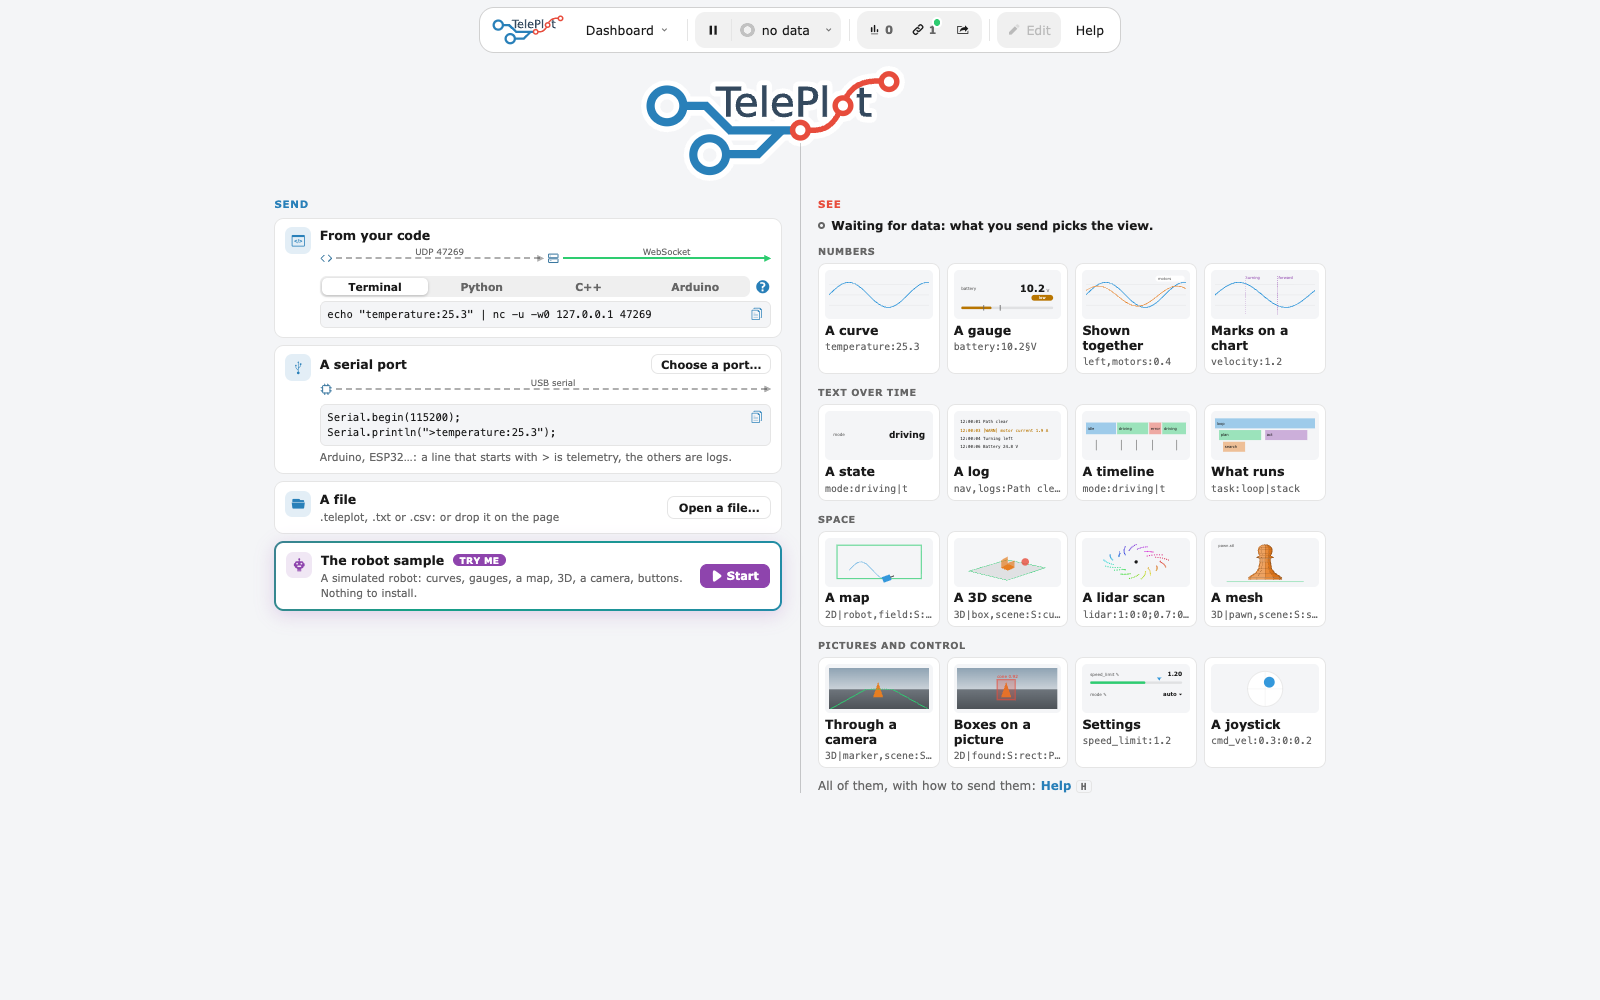
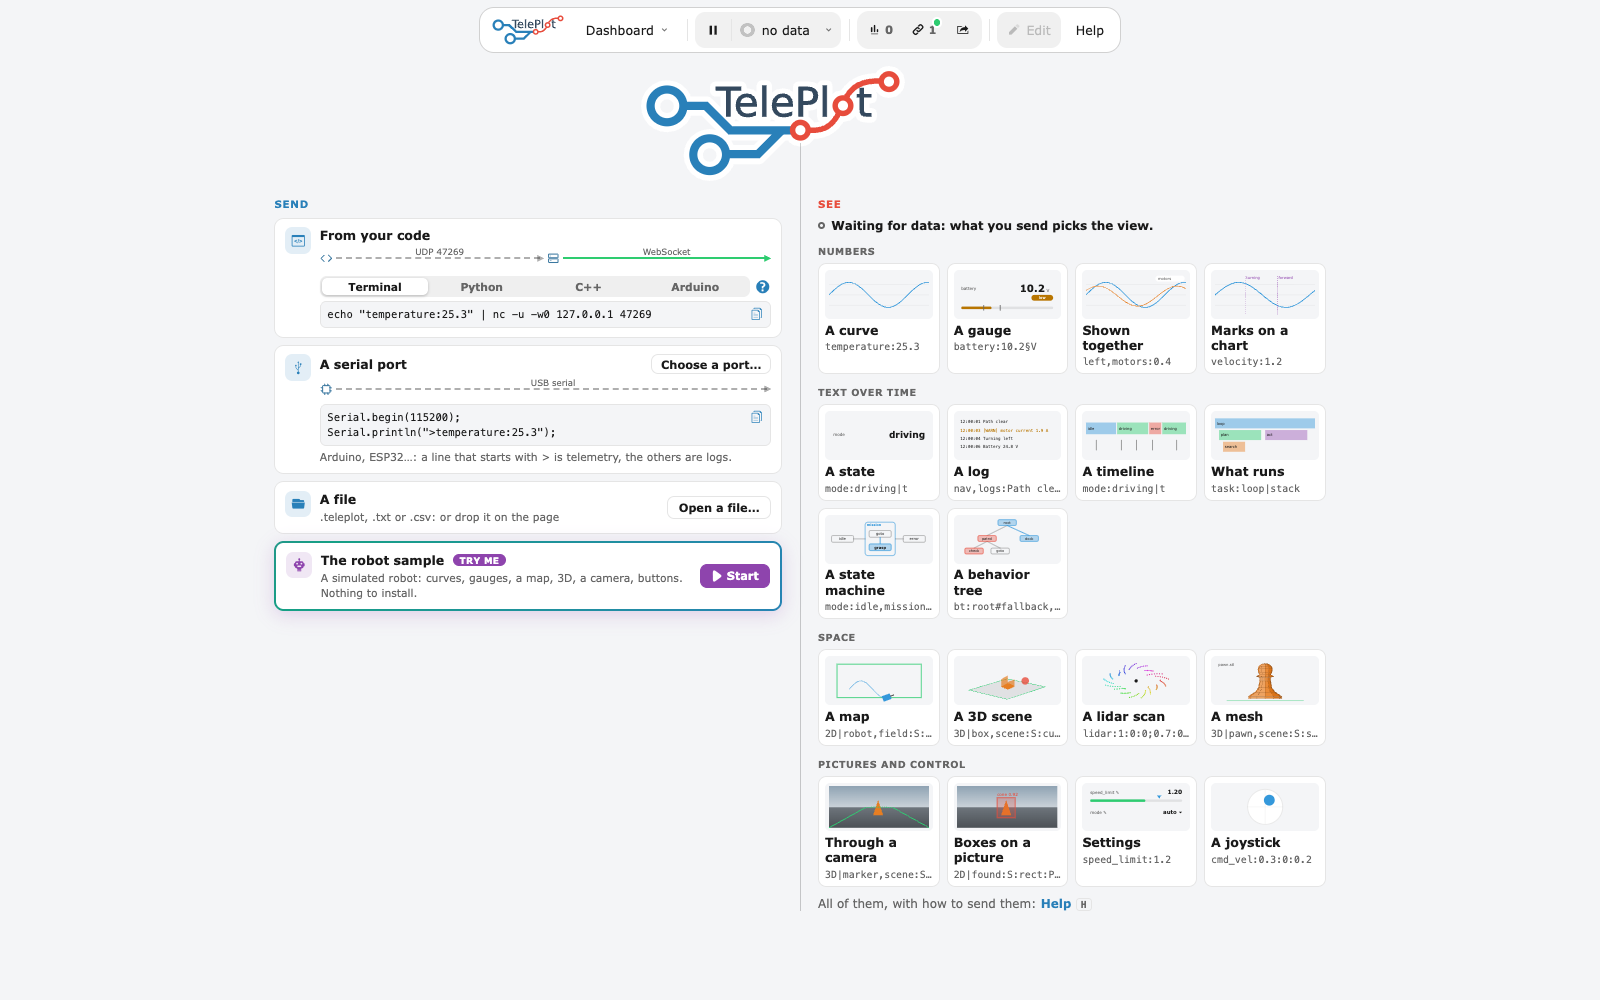
Robot sample layout, README images
- Robot sample dashboard: the 3D scene over the camera and depth
  pictures, the map over the wheel speeds, the timeline next to the
  Behavior / States graph tabs, the currents and the Distance / Gyro
  tabs at the bottom.
- README: new GIF of the sample and landing image (graph tiles).

Changed region(s): [[0.5, 0.527, 0.8125, 0.93], [0.75, 0.837, 0.8125, 0.868]]

diff --git a/packages/webapp/components/sample-robot.js b/packages/webapp/components/sample-robot.js
@@ -484,35 +484,40 @@ function createRobotSample(TP) {
         const stack = (w, h) => { const s = new TP.view.ViewStack("", group); s.setSize(w, h); return s; };
         const timeGroup = (view, name) => { view.setOption("timeGroup", "custom"); view.setOption("timeGroupName", name); return view; };
 
-        // On top, where the robot is: the 3D scene; the same telemetries on a map (a 2D view) over what its camera and its depth camera
-        // see; the camera with the 3D drawn over it, over the commands and the joystick; its state over the merged logs of all subsystems.
-        // Under it, the motion charts. The plain camera picture is alone in a time group of its own ("Live"): nothing moves its
+        // On top, where the robot is: the 3D scene over what its camera and its depth camera see; the same telemetries on a map (a 2D
+        // view) over the speeds of its wheels; the camera with the 3D drawn over it, over the commands and the joystick; its state over
+        // the merged logs of all subsystems. The plain camera picture is alone in a time group of its own ("Live"): nothing moves its
         // cursor, so it keeps showing the latest picture while the rest of the dashboard is zoomed or follows the pointer.
-        // Between them, the timeline: the states of the robot as bands (where it is leaves holes: it is in no zone most of the time) and
-        // two of its logs as ticks. On the charts, the state and the motor log are marks, and the thresholds are dashed lines.
-        const main = layout("column"), top = layout("row"), bottom = layout("row");
-        const places = layout("column", 4, 7), pictures = layout("row", 1, 2), cameras = layout("column", 2, 7), state = layout("column", 3, 7), tabs = stack(2, 5);
+        // Then the timeline: the states of the robot as bands (where it is leaves holes: it is in no zone most of the time) and two of its
+        // logs as ticks, next to its graphs (what it decides, its state machine). At the bottom the currents, and the distance and the
+        // gyro in tabs. On the charts, the state and the motor log are marks, and the thresholds are dashed lines.
+        // (In a row the widths of the views share out its width, in a column they share out its height.)
+        const main = layout("column"), top = layout("row"), middle = layout("row"), bottom = layout("row");
+        const sight = layout("column", 4, 7), places = layout("column", 4, 7), pictures = layout("row", 2, 2), cameras = layout("column", 2, 7), state = layout("column", 3, 7), tabs = stack(4, 5);
         dashboard.setView(main);
         main.addView(top);
         // (numbers can have a lane too: the distance has a threshold, it is a band while a wall is too close; the gyro is a plain line)
         const timeline = new TP.view.ViewTimeline("", ["robot.state", "robot.mode", "robot.goto", "robot.camera.task", "robot.zone", "robot.distance", "robot.gyro.z", "robot.nav.log", "robot.motor.log"], group);
-        timeline.setSize(12, 5);
-        main.addView(timeline);
+        timeline.setSize(9, 5);
+        main.addView(middle);
+        middle.addView(timeline);
         main.addView(bottom);
 
         const scene = new TP.view.ViewScene3D("", ["robot.3d.floor", "robot.3d.wall.back", "robot.3d.wall.front", "robot.3d.wall.right", "robot.3d.wall.left", "robot.3d.body", "robot.3d.wheel.left", "robot.3d.wheel.right", "robot.3d.screen", "robot.3d.obstacle", "robot.camera", "robot.depth", "robot.path", "robot.lidar", "robot.map.dock", "robot.map.dock.name", "robot.map.heading", "robot.map.reach", "robot.map.obstacle.name"], group);
-        scene.setSize(4, 7);
+        scene.setSize(3, 7);
         scene.setOption("trailLength", 500);
-        top.addView(scene);
+        top.addView(sight);
+        sight.addView(scene);
+        sight.addView(pictures); // (3 against 2: the scene takes most of the height)
         // The map: the same telemetries seen from above (solids are drawn as what they cover on the ground). Nothing is sent twice.
         const map = new TP.view.ViewScene2D("", ["robot.3d.floor", "robot.map.dock", "robot.map.dock.name", "robot.3d.wall.back", "robot.3d.wall.front", "robot.3d.wall.right", "robot.3d.wall.left", "robot.map.reach", "robot.path", "robot.lidar", "robot.3d.body", "robot.3d.wheel.left", "robot.3d.wheel.right", "robot.camera", "robot.map.heading", "robot.3d.obstacle", "robot.map.obstacle.name", "robot.pose"], group);
-        map.setSize(4, 5);
+        map.setSize(1, 5);
         map.setOption("trailLength", 500);
         map.setOption("displayLegend", false);
         map.setOption("title", "Map"); // (seen from above: x to the right, y up. axisRight / axisUp choose another way to look at it)
         top.addView(places);
         places.addView(map);
-        places.addView(pictures); // (in a column the width shares out the height left: 1 against 4, the map takes most of it)
+        places.addView(chart(["robot.wheel.left", "robot.wheel.right", "robot.state"], 1, 5)); // (as tall as the map)
         top.addView(cameras);
         top.addView(state);
 
@@ -539,16 +544,15 @@ function createRobotSample(TP) {
         logView.setSize(3, 4);
         state.addView(logView);
 
-        bottom.addView(chart(["robot.current.left", "robot.current.right", "robot.motor.log"], 3, 5));
-        bottom.addView(chart(["robot.wheel.left", "robot.wheel.right", "robot.state"], 3, 5));
+        bottom.addView(chart(["robot.current.left", "robot.current.right", "robot.motor.log"], 6, 5));
         bottom.addView(tabs);
         // Its graphs: what it decides (a behavior tree) and its state machine, in tabs
-        const graphs = stack(4, 5), tree = new TP.view.ViewGraph("", ["robot.bt"], group), machine = new TP.view.ViewGraph("", ["robot.state"], group);
+        const graphs = stack(3, 5), tree = new TP.view.ViewGraph("", ["robot.bt"], group), machine = new TP.view.ViewGraph("", ["robot.state"], group);
         tree.setOption("title", "Behavior");
         machine.setOption("title", "States");
         graphs.addView(tree);
         graphs.addView(machine);
-        bottom.addView(graphs);
+        middle.addView(graphs);
         // Commands (switch CMD on), under the camera: its settings and actions, edited and called in place, and a joystick for the manual mode
         const settings = values(["robot.speed_limit", "robot.motors", "robot.mode", "robot.odometry.reset", "robot.goto", "robot.stop", "robot.dock"], 2, 2);
         settings.setOption("title", "Commands");

diff --git a/CLAUDE.md b/CLAUDE.md
@@ -156,4 +156,4 @@ Rework of Teleplot for better performance and UI.
 - Top menu: `webapp/components/top-menu.js` (floating island: dashboard switcher, pause/resume + rate, left panels as one segmented control with counts, Edit, Help as a word at the right end; shortcuts Space/T/S/H/E (shown in tooltips), fades out when the mouse rests), see `doc/top-menu.md`. Layout: docks that slide their width (left: Telemetries or Sources, `ctx.sidePanel`; right: Help, `ctx.helpOpen`, then the edit panel), welcome screen, help panel: see `doc/webapp-layout.md`. Help panel (`panel-help.js`, wider dock `.dock-help-wide`): it doubles as the reference of the text protocol and must stay exhaustive (a test reads the parser and fails when a property, flag, key or option has no field in a tile); a sheet is: the format (`format` + `fields` table), step by step (`examples`, each with a `title`), other examples (`more`, visible: details are never folded away), good to know (`notes`: short points, no long paragraph), and for dashboards the options of each view from `getOptionsSchema` (`helpViewOptions`); "Send all" must give what one-by-one gives (tested). A gallery of results (`HELP_TILES` in `HELP_FAMILIES`, SVG pictures `helpPicture`): a tile opens a sheet about the text protocol (messages in order, each large with its parts named under it by `helpParts` and a hint per part `HELP_PART_TIPS`, the command of the language small under it; the language is chosen once, at the top; how it works, more ways; no related tiles; tiles "In the page" open a panel instead), files a tile uses are in `webapp/media/` (`pawn.stl` for "A mesh", `floor-plan.png` for "A picture in the scene"), long parts shown short (`helpShort`), quoted messages put in single quotes for terminal / Python and escaped for Arduino (`helpLine`), no binary protocol in the Help (the user does not want it there for now), no box above the gallery (the user removed the first number to send and its "Start here": it repeated the first tile and vanished once clicked; no suggestions, progression or "new" badges: the user did not want them), "How Teleplot works" (`HELP_CONCEPTS`, schematics `helpSchema`), search, lines written for the way the user sends data (`HELP_SENDERS`), parts of a message named and colored (`helpParts`, the only parser of the panel), numbers nudged after a Send (`helpVary`), a field at the bottom to try a message (`helpDescribe` says what was understood). Every line is tested against the parser in `tests/help.test.js`. Pause is the lib's `TP.state.isPaused` (data is ignored while paused). `components/telemetry-rate.js` estimates rates (also used by the Telemetries panel). In `index.html` custom elements that have siblings after them must be closed explicitly (`<top-menu></top-menu>`): `<x/>` is not self-closing in in-DOM templates.
 - The old tree panel (`panel-dashboard.js`) was replaced by the edit mode. DOM behaviour (pills, drag and drop) has no automated test: check it in a browser (serve `packages/webapp`, `app._container._vnode.component.proxy` gives the root component, `.editor` the editor; click the sample start button of the Help panel, then Edit).
 - Sources panel: `webapp/components/panel-sources.js` (summary, a card per source, serial console, add a source, data controls), see `doc/sources.md`. Serial is Web Serial only (Chromium); to test without a device, give `TP.connection.addConnectionSerial` a fake port (an object with `open`, `close`, `getInfo`, and `readable` / `writable` streams, as in `tests/connectionSerial.test.js`). Telemetries know their source (`telemetry.sourceId`).
-- Sample data: `packages/webapp/components/sample-robot.js` (self-contained robot simulation: numbers, 2D, text, 3D shapes and a 3D path, and a ray-traced camera with lens distortion that publishes its intrinsics, distortion and pose) builds its own "Robot sample" dashboard (layout chosen by the user 2026-10-24, top row: 3D scene | map over camera and depth side by side | camera + 3D, commands, joystick | values over the logs; then the timeline; bottom row: two charts and a stack Distance / Gyro; the camera and depth views are in a custom time group "Live", so they stay on the latest picture); its telemetries have autoplot=false so the auto dashboard ignores them. The help panel only has the start/stop button.
+- Sample data: `packages/webapp/components/sample-robot.js` (self-contained robot simulation: numbers, 2D, text, 3D shapes and a 3D path, and a ray-traced camera with lens distortion that publishes its intrinsics, distortion and pose) builds its own "Robot sample" dashboard (layout chosen by the user 2026-10-28, top row: 3D scene over camera and depth side by side | map over the wheel speeds chart | camera + 3D, commands, joystick | values over the logs; then the timeline next to a stack of graphs Behavior / States; bottom row: the currents chart and a stack Distance / Gyro; in a row the widths of the views share out its width, in a column they share out its height; the camera and depth views are in a custom time group "Live", so they stay on the latest picture); its telemetries have autoplot=false so the auto dashboard ignores them. The help panel only has the start/stop button.

diff --git a/README.md b/README.md
@@ -11,7 +11,7 @@ echo "myData:4" | nc -u -w0 127.0.0.1 47269
 
 ![The page of Teleplot waiting for data: the ways to send it on the left, what can be displayed on the right](doc/images/landing.png)
 
-![The robot sample of Teleplot: a 3D scene, a map, a camera, a depth map, commands, values, logs, a timeline and charts, all live](doc/images/robot-sample.gif)
+![The robot sample of Teleplot: a 3D scene, a map, a camera, a depth map, commands, values, logs, a timeline, a behavior tree and charts, all live](doc/images/robot-sample.gif)
 
 *Above: the page waiting for data, then the robot sample (welcome screen, "Try me"): a simulated robot, nothing to install.*
 
